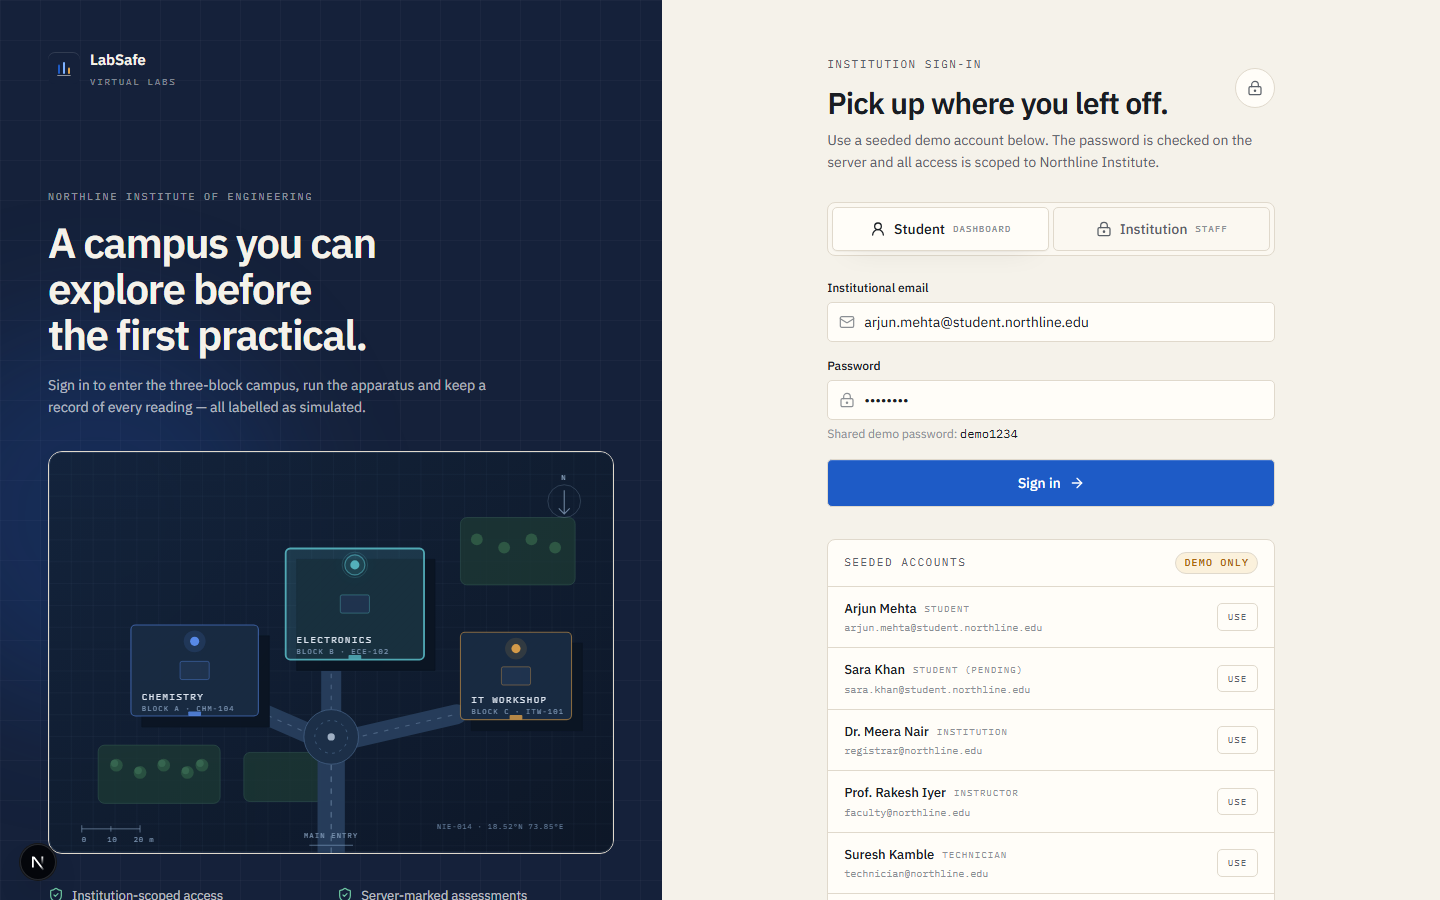
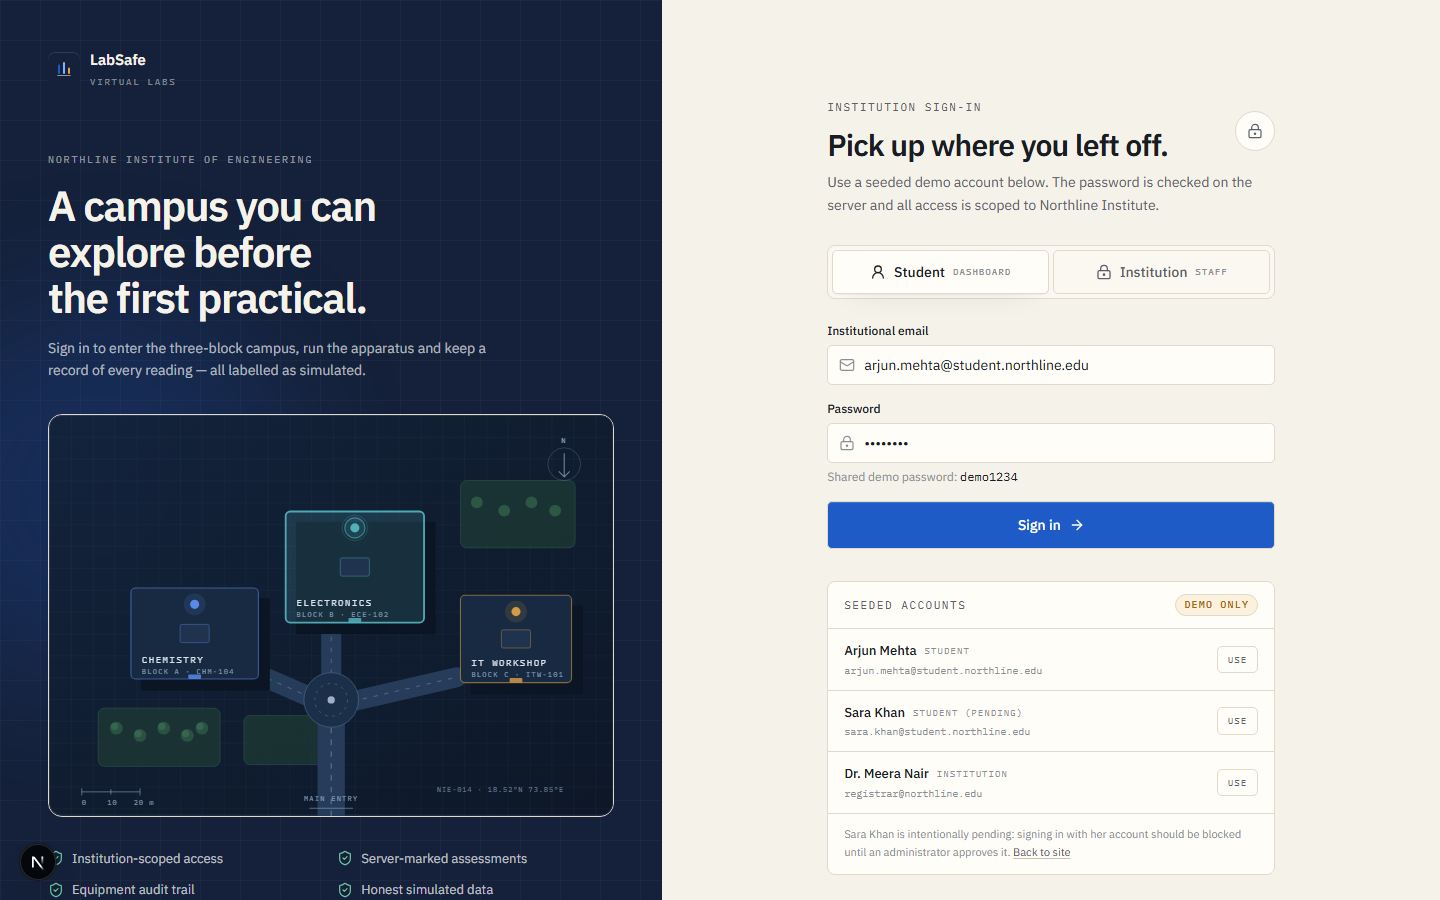
Remove instructor/technician demo accounts and equipment link from overview

diff --git a/src/lib/auth/demo-accounts.ts b/src/lib/auth/demo-accounts.ts
@@ -32,20 +32,6 @@ export const DEMO_ACCOUNTS: DemoAccountHint[] = [
     email: "registrar@northline.edu",
     detail: "Administrator · Northline Institute",
   },
-  {
-    role: "instructor",
-    label: "Instructor",
-    name: "Prof. Rakesh Iyer",
-    email: "faculty@northline.edu",
-    detail: "Assignments, results, fault scenarios",
-  },
-  {
-    role: "technician",
-    label: "Technician",
-    name: "Suresh Kamble",
-    email: "technician@northline.edu",
-    detail: "Inspections and equipment readiness",
-  },
 ];
 
 export const DEMO_PASSWORD_HINT = "demo1234";

diff --git a/src/app/(app)/institution/page.tsx b/src/app/(app)/institution/page.tsx
@@ -77,9 +77,6 @@ export default async function InstitutionOverviewPage() {
                 Manage students
               </Link>
             ) : null}
-            <Link href="/institution/equipment" className="text-xs font-medium text-cobalt hover:text-cobalt-deep">
-              Equipment
-            </Link>
             {isAdmin ? (
               <Link href="/institution/results" className="text-xs font-medium text-cobalt hover:text-cobalt-deep">
                 Results

diff --git a/README.md b/README.md
@@ -81,8 +81,6 @@ Shared password: `demo1234`
 | Student | arjun.mehta@student.northline.edu |
 | Student (pending) | sara.khan@student.northline.edu |
 | Administrator | registrar@northline.edu |
-| Instructor | faculty@northline.edu |
-| Technician | technician@northline.edu |
 
 Students go to `/dashboard`; staff go to `/institution`. Sara Khan is
 intentionally pending — signing in with her account is blocked until an
